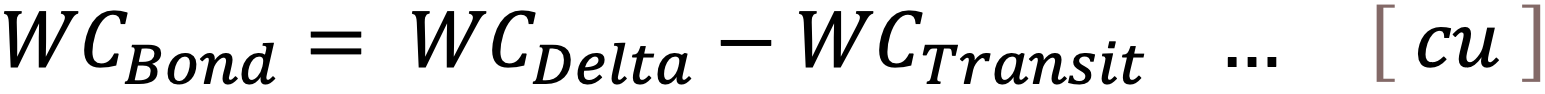
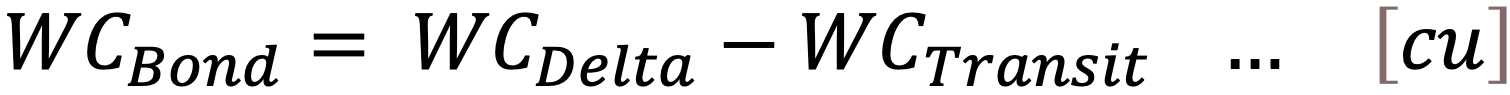
Commit

Changed region(s): [[0.4669, 0.0426, 1.0, 0.9149], [0.0, 0.1064, 0.4669, 0.9149]]

diff --git a/research/WhitePaper.md b/research/WhitePaper.md
@@ -44,8 +44,8 @@ A list of abbreviations and acronyms used in this paper is presented at the end.
 
 Some formulas use the expression of '+=' or '-='.
 
-<img src="https://github.com/HonestInsurance/Resources/blob/master/research/formulas/ch1-img2.png?raw=true" width="700" style="padding:30px; padding-left:50px">
-<img src="https://github.com/HonestInsurance/Resources/blob/master/research/formulas/ch1-img3.png?raw=true" width="700" style="padding:30px; padding-left:50px">
+<img src="https://github.com/HonestInsurance/Resources/blob/master/research/formulas/ch1-img2.png?raw=true" width="735" style="padding:30px; padding-left:50px">
+<img src="https://github.com/HonestInsurance/Resources/blob/master/research/formulas/ch1-img3.png?raw=true" width="735" style="padding:30px; padding-left:50px">
 
 ---
 
@@ -85,7 +85,7 @@ WC<sub>Bal</sub> refers to the account balance of Funding Account at any given p
 
 The proposed model utilizes historic expenses to make a prediction about the insurance pool's 'near' future expenses. These historical **daily expenses** of running the insurance pool can be calculated with 'n' being the number of days in the past that are considered.
 
-<img src="https://github.com/HonestInsurance/Resources/blob/master/research/formulas/ch3-img1.png?raw=true" width="500" style="padding:30px; padding-left:50px">
+<img src="https://github.com/HonestInsurance/Resources/blob/master/research/formulas/ch3-img1.png?raw=true" width="517" style="padding:30px; padding-left:50px">
 
 In selecting an appropriate value for 'n' two aspects must be considered:
 
@@ -100,7 +100,7 @@ WC<sub>Exp</sub> accounts only for actual costs that are settled from the fundin
 
 Due to sometimes significant time gaps between claim incidents and their settlements, WC<sub>Locked</sub> is used in this model to account for these future liabilities (accrued liabilities are created). The purpose of these accruals is to capture expected future expenditures in a timely fashion, allowing the model to respond more quickly to a changing environment.
 
-<img src="https://github.com/HonestInsurance/Resources/blob/master/research/formulas/ch3-img2.png?raw=true" width="480" style="padding:30px; padding-left:50px">
+<img src="https://github.com/HonestInsurance/Resources/blob/master/research/formulas/ch3-img2.png?raw=true" width="495" style="padding:30px; padding-left:50px">
 
 'm' represents the total number of claims for which an accrual has been established. Note: Establishing an accrual for a claim should be considered an exception to the rule and not the default operating procedure, the exception being if:
 
@@ -113,7 +113,7 @@ If an accrual has been established for a claim, this liability will be removed f
 
 A key metric on which the health of the insurance pool can be assessed is the duration in days WC<sub>Bal</sub> is able to cover **anticipated** claim payments without having any additional contributions made to it. This metric is called Working Capital Time (WC<sub>Time</sub>) and can be calculated as follows:
 
-<img src="https://github.com/HonestInsurance/Resources/blob/master/research/formulas/ch3-img3.png?raw=true" width="370" style="padding:30px; padding-left:50px">
+<img src="https://github.com/HonestInsurance/Resources/blob/master/research/formulas/ch3-img3.png?raw=true" width="385" style="padding:30px; padding-left:50px">
 
 Since WC<sub>Locked</sub> is included in this formula, WC<sub>Time</sub> can also be a negative value. This would mean that WC<sub>Bal</sub> is insufficient to cover the anticipated claims represented by WC<sub>Locked</sub> causing the insurance pool to be in debt. However, the insurance pool remains solvent as long as WC<sub>Bal</sub> is able to fund ongoing WC<sub>Exp</sub>.
 
@@ -154,36 +154,36 @@ Finally, a very high WC<sub>Time</sub> (and WC<sub>Bal</sub>) may provide Liquid
 
 The Risk premium (CCU<sub>Risk</sub>) in the context of WC<sub>Time</sub> can be calculated as follows:
 
-<img src="https://github.com/HonestInsurance/Resources/blob/master/research/formulas/ch3-img4.png?raw=true" width="300" style="padding:30px; padding-left:50px">
+<img src="https://github.com/HonestInsurance/Resources/blob/master/research/formulas/ch3-img4.png?raw=true" width="315" style="padding:30px; padding-left:50px">
 
 
 The interest component (CCU<sub>Interest</sub>) in relation to WC<sub>Time</sub> is considered to be a linear function in which Liquidity Providers demand a fixed daily return for providing the funds. As a result, CCU<sub>Interest</sub> is the product of the demanded daily return and the duration (WC<sub>Time</sub>):
 
-<img src="https://github.com/HonestInsurance/Resources/blob/master/research/formulas/ch3-img5.png?raw=true" width="290" style="padding:30px; padding-left:50px">
+<img src="https://github.com/HonestInsurance/Resources/blob/master/research/formulas/ch3-img5.png?raw=true" width="302" style="padding:30px; padding-left:50px">
 
 CCU<sub>Total</sub> can be calculated as the sum of CCU<sub>Risk</sub> and CCU<sub>Interest</sub>.
 
-<img src="https://github.com/HonestInsurance/Resources/blob/master/research/formulas/ch3-img6.png?raw=true" width="450" style="padding:30px; padding-left:50px">
+<img src="https://github.com/HonestInsurance/Resources/blob/master/research/formulas/ch3-img6.png?raw=true" width="492" style="padding:30px; padding-left:50px">
 
 The ideal WC<sub>TargetTime</sub> can now be calculated by finding a minimum for CCU<sub>Total</sub>:
 
-<img src="https://github.com/HonestInsurance/Resources/blob/master/research/formulas/ch3-img7.png?raw=true" width="500" style="padding:30px; padding-left:50px">
+<img src="https://github.com/HonestInsurance/Resources/blob/master/research/formulas/ch3-img7.png?raw=true" width="540" style="padding:30px; padding-left:50px">
 
 Mathematically, we can conclude:
 
-<img src="https://github.com/HonestInsurance/Resources/blob/master/research/formulas/ch3-img8.png?raw=true" width="120" style="padding:20px; padding-left:50px"> </break>
+<img src="https://github.com/HonestInsurance/Resources/blob/master/research/formulas/ch3-img8.png?raw=true" width="122" style="padding:20px; padding-left:50px"> </break>
 
-<img src="https://github.com/HonestInsurance/Resources/blob/master/research/formulas/ch3-img9.png?raw=true" width="300" style="padding:30px; padding-left:50px"> </break>
+<img src="https://github.com/HonestInsurance/Resources/blob/master/research/formulas/ch3-img9.png?raw=true" width="310" style="padding:30px; padding-left:50px"> </break>
 
-<img src="https://github.com/HonestInsurance/Resources/blob/master/research/formulas/ch3-img10.png?raw=true" width="180" style="padding:30px; padding-left:50px"> </break>
+<img src="https://github.com/HonestInsurance/Resources/blob/master/research/formulas/ch3-img10.png?raw=true" width="195" style="padding:30px; padding-left:50px"> </break>
 
-<img src="https://github.com/HonestInsurance/Resources/blob/master/research/formulas/ch3-img11.png?raw=true" width="320" style="padding:30px; padding-left:50px">
+<img src="https://github.com/HonestInsurance/Resources/blob/master/research/formulas/ch3-img11.png?raw=true" width="340" style="padding:30px; padding-left:50px">
 
 ## Demand of Working Capital (WC<sub>Delta</sub>)
 
 In comparing WC<sub>TargetTime</sub> with the current WC<sub>Time</sub>, the demand for additional WC required can be expressed as
 
-<img src="https://github.com/HonestInsurance/Resources/blob/master/research/formulas/ch3-img12.png?raw=true" width="470" style="padding:30px; padding-left:50px">
+<img src="https://github.com/HonestInsurance/Resources/blob/master/research/formulas/ch3-img12.png?raw=true" width="510" style="padding:30px; padding-left:50px">
 
 A positive value for WC<sub>Delta</sub> describes the demand for additional liquidity required to match WC<sub>Time</sub> with WC<sub>TargetTime</sub>. A negative value for WC<sub>Delta</sub> indicates that the insurance pool is over funded and no additional liquidity is required at this point in time.
 
@@ -202,14 +202,14 @@ A Liquidity Provider can be any natural person of eligible age or a legal entity
 
 Due to a delay in a bond being issued and the corresponding principal being credited to the insurance pool's bank account, the variable WC<sub>Transit</sub> is used to capture the sum of all the Bonds' principal in transit.
 
-<img src="https://github.com/HonestInsurance/Resources/blob/master/research/formulas/ch4-img1.png?raw=true" width="460" style="padding:30px; padding-left:50px"> </break>
+<img src="https://github.com/HonestInsurance/Resources/blob/master/research/formulas/ch4-img1.png?raw=true" width="505" style="padding:30px; padding-left:50px"> </break>
 
-<img src="https://github.com/HonestInsurance/Resources/blob/master/research/formulas/ch4-img2.png?raw=true" width="480" style="padding:30px; padding-left:50px">
+<img src="https://github.com/HonestInsurance/Resources/blob/master/research/formulas/ch4-img2.png?raw=true" width="525" style="padding:30px; padding-left:50px">
 
 
 When the Liquidity Provider fails to deposit the principal within the **Bond Payment Period** , the Bond contract is voided and the corresponding WC<sub>Transit</sub> is removed as well.
 
-<img src="https://github.com/HonestInsurance/Resources/blob/master/research/formulas/ch4-img3.png?raw=true" width="460" style="padding:30px; padding-left:50px">
+<img src="https://github.com/HonestInsurance/Resources/blob/master/research/formulas/ch4-img3.png?raw=true" width="510" style="padding:30px; padding-left:50px">
 
 
 To encourage Liquidity Providers to deposit the principal and fulfil their contractual obligations, Liquidity Providers need to provide a security valued at 10% of the value of the Bond's principal. If a Liquidity Provider fails to deposit the principal, the ownership of the security transfers to the insurance pool. Two options are proposed to provide this security:
@@ -226,7 +226,7 @@ As stated earlier, when the principal does not get credited within the Bond Paym
 
 Taking WC<sub>Transit</sub> into account, the actual demand for new capital (WC<sub>Bond</sub>) to be acquired by the insurance pool through issuing bonds can be calculated as follows:
 
-<img src="https://github.com/HonestInsurance/Resources/blob/master/research/formulas/ch4-img4.png?raw=true" width="350" style="padding:30px; padding-left:50px">
+<img src="https://github.com/HonestInsurance/Resources/blob/master/research/formulas/ch4-img4.png?raw=true" width="377" style="padding:30px; padding-left:50px">
 
 
 In purchasing Bonds, the following bond constraints and clauses apply to Liquidity Providers.
@@ -262,20 +262,20 @@ At periodic intervals, a new demand for WC<sub>Delta</sub> is calculated by the 
 
 - First, a new value for WC<sub>Bond</sub> is calculated by using the previous formula
 
-<img src="https://github.com/HonestInsurance/Resources/blob/master/research/formulas/ch4-img5.png?raw=true" width="350" style="padding:30px; padding-left:50px">
+<img src="https://github.com/HonestInsurance/Resources/blob/master/research/formulas/ch4-img5.png?raw=true" width="377" style="padding:30px; padding-left:50px">
 
 
 - Yield (Yield of the top step) remains at the same value. If no value has been defined in the past, a value of 1% is chosen as its initial value.
 - Finally, the Gradient can be recalculated by
 
-<img src="https://github.com/HonestInsurance/Resources/blob/master/research/formulas/ch4-img6.png?raw=true" width="260" style="padding:30px; padding-left:50px">
+<img src="https://github.com/HonestInsurance/Resources/blob/master/research/formulas/ch4-img6.png?raw=true" width="280" style="padding:30px; padding-left:50px">
 
 
 ## Acceleration of Yield
 
 The **Yield** of the insurance pool **accelerates at a discrete interval of one minute**. However, this increase is executed only if WC<sub>Bond</sub> exceeds a minimum threshold of 10% of WC<sub>Exp</sub>.
 
-<img src="https://github.com/HonestInsurance/Resources/blob/master/research/formulas/ch4-img7.png?raw=true" width="580" style="padding:30px; padding-left:50px">
+<img src="https://github.com/HonestInsurance/Resources/blob/master/research/formulas/ch4-img7.png?raw=true" width="630" style="padding:30px; padding-left:50px">
 
 
 The reasoning for this 10% threshold is twofold. First, the resources consumed on a minute-by-minute basis to increase the Yield in comparison to the outstanding WC<sub>Bond</sub> volume may not justify its operations. Second, and more importantly, a small value for WC<sub>Bond</sub> may not make it worthwhile to any Liquidity Provider to purchase a bond with the remaining WC<sub>Bond</sub> as its principal. This would potentially cause the Yield to increase to a very high value. When a reinitialization occurs and a higher WC<sub>Bond</sub> demand is on offer, a significant portion of this WC<sub>Bond</sub> becomes available at an unjustifiably high Yield.
@@ -284,12 +284,12 @@ The implications in choosing an appropriate value for YAC are as follows:
 
 1. **Double Value Time** represents the duration it would take the Yield to increase by a factor of two (i.e. to double in value). Hence, this duration determines the insurance pool's ability to respond to a changing environment in which Liquidity Providers request a higher Yield.
 
-<img src="https://github.com/HonestInsurance/Resources/blob/master/research/formulas/ch4-img8.png?raw=true" width="530" style="padding:30px; padding-left:50px">
+<img src="https://github.com/HonestInsurance/Resources/blob/master/research/formulas/ch4-img8.png?raw=true" width="572" style="padding:30px; padding-left:50px">
 
 
 1. **Turnover Rate** refers to the time it would take to sell all the WC<sub>Bond</sub> under the condition that Liquidity Providers' demanded Yield remains constant. This can be perceived as the speed at which WC<sub>Bond</sub> is being 'sold' to Liquidity Providers.
 
-<img src="https://github.com/HonestInsurance/Resources/blob/master/research/formulas/ch4-img9.png?raw=true" width="410" style="padding:30px; padding-left:50px">
+<img src="https://github.com/HonestInsurance/Resources/blob/master/research/formulas/ch4-img9.png?raw=true" width="450" style="padding:30px; padding-left:50px">
 
 The relationship between Double Value Time and Turnover Rate, depending on YAC, is shown in the diagram below.
 
@@ -297,35 +297,35 @@ The relationship between Double Value Time and Turnover Rate, depending on YAC, 
 
 To obtain YAC on a per minute basis calculate
 
-<img src="https://github.com/HonestInsurance/Resources/blob/master/research/formulas/ch4-img10.png?raw=true" width="490" style="padding:30px; padding-left:50px">
+<img src="https://github.com/HonestInsurance/Resources/blob/master/research/formulas/ch4-img10.png?raw=true" width="527" style="padding:30px; padding-left:50px">
 
 
 ## Issuing of a new Insurance Pool Bond (Bond)
 
 The terms of a newly issued Bond are as follows:
 
-<img src="https://github.com/HonestInsurance/Resources/blob/master/research/formulas/ch4-img11.png?raw=true" width="750" style="padding:30px; padding-left:50px"> </break>
+<img src="https://github.com/HonestInsurance/Resources/blob/master/research/formulas/ch4-img11.png?raw=true" width="807" style="padding:30px; padding-left:50px"> </break>
 
-<img src="https://github.com/HonestInsurance/Resources/blob/master/research/formulas/ch4-img12.png?raw=true" width="490" style="padding:30px; padding-left:50px"> </break>
+<img src="https://github.com/HonestInsurance/Resources/blob/master/research/formulas/ch4-img12.png?raw=true" width="525" style="padding:30px; padding-left:50px"> </break>
 
-<img src="https://github.com/HonestInsurance/Resources/blob/master/research/formulas/ch4-img13.png?raw=true" width="250" style="padding:30px; padding-left:50px"> </break>
+<img src="https://github.com/HonestInsurance/Resources/blob/master/research/formulas/ch4-img13.png?raw=true" width="270" style="padding:30px; padding-left:50px"> </break>
 
-<img src="https://github.com/HonestInsurance/Resources/blob/master/research/formulas/ch4-img14.png?raw=true" width="540" style="padding:30px; padding-left:50px">
+<img src="https://github.com/HonestInsurance/Resources/blob/master/research/formulas/ch4-img14.png?raw=true" width="577" style="padding:30px; padding-left:50px">
 
 
 ## Adjustment of WC<sub>Bond</sub> and Yield
 
 Upon the successful issue of a Bond, WC<sub>Bond</sub> and Yield are adjusted:
 
-<img src="https://github.com/HonestInsurance/Resources/blob/master/research/formulas/ch4-img15.png?raw=true" width="210" style="padding:30px; padding-left:50px"> </break>
+<img src="https://github.com/HonestInsurance/Resources/blob/master/research/formulas/ch4-img15.png?raw=true" width="235" style="padding:30px; padding-left:50px"> </break>
 
-<img src="https://github.com/HonestInsurance/Resources/blob/master/research/formulas/ch4-img16.png?raw=true" width="300" style="padding:30px; padding-left:50px">
+<img src="https://github.com/HonestInsurance/Resources/blob/master/research/formulas/ch4-img16.png?raw=true" width="315" style="padding:30px; padding-left:50px">
 
 ## Reimbursement of Liquidity Providers
 
 At the time, a Bond matures, the Bond's principal (BondPrincipal) plus yield (BondYield) are transferred back to the Liquidity Provider.
 
-<img src="https://github.com/HonestInsurance/Resources/blob/master/research/formulas/ch4-img17.png?raw=true" width="570" style="padding:30px; padding-left:50px">
+<img src="https://github.com/HonestInsurance/Resources/blob/master/research/formulas/ch4-img17.png?raw=true" width="625" style="padding:30px; padding-left:50px">
 
 ---
 
@@ -337,7 +337,7 @@ Consumers can participate and get insurance coverage by subscribing to the insur
 
 As the policy risk coverage (PolicyRisk) is different from policy to policy, an objective and quantifiable process (or formula) to compare various insurance policies with each other is required. Such a process may differ again from insurance pool to insurance pool and hence needs to be defined in the context of the insurance pool's environment.
 
-<img src="https://github.com/HonestInsurance/Resources/blob/master/research/formulas/ch5-img1.png?raw=true" width="800" style="padding:30px; padding-left:50px">
+<img src="https://github.com/HonestInsurance/Resources/blob/master/research/formulas/ch5-img1.png?raw=true" width="782" style="padding:30px; padding-left:50px">
 
 ### The required function needs to meet the following criteria:
 
@@ -379,14 +379,14 @@ The calculation of the **tomorrow's** premium undergoes the following steps:
 
 The average bond maturity payout in the future is calculated by dividing the total amount of **all maturing bonds in the future** by _Bond __Maturity Duration_. For example a value of 300 for _Bond Payout__ Average per day_ and a value of 90 for _Bond__Maturity Duration_means that over the next 90 days the average value of bonds maturing over the course of a single day is 300.
 
-<img src="https://github.com/HonestInsurance/Resources/blob/master/research/formulas/ch5-img2.png?raw=true" width="680" style="padding:30px; padding-left:50px">
+<img src="https://github.com/HonestInsurance/Resources/blob/master/research/formulas/ch5-img2.png?raw=true" width="730" style="padding:30px; padding-left:50px">
 
 2. **Maximum bond payout slope per day**
 
 Since bond maturity payout amounts are most likely distributed unevenly, the model must take that into account by calculating the maximum 'slope' of the cumulated upcoming bond maturity payouts.
  To do that for every day in the future until the BondMaturity Duration has been reached, the model has to ensure that the balance in the Bond Account remains positive by calculating the accumulated future capital demands.
 
-<img src="https://github.com/HonestInsurance/Resources/blob/master/research/formulas/ch5-img3.png?raw=true" width="820" style="padding:30px; padding-left:50px">
+<img src="https://github.com/HonestInsurance/Resources/blob/master/research/formulas/ch5-img3.png?raw=true" width="888" style="padding:30px; padding-left:50px">
 
 The **daily demand** in capital to settle all maturing bonds for any given day 'i' in the future is defined as all the sum of bonds that are maturing until that day PLUS a buffer amount that should always be available in the bond account defined as 3 times the Bond PayoutsAverage per day MINUS the current balance of the Bond Account DIVIDED by 'i'.
 
@@ -396,7 +396,7 @@ A value of 700 for _Bond Payout_ _Slope_ _{ 8 }_ therefore means that over the c
 
 The final **target premium** to be charged to all the consumers combined for tomorrow can be calculated by:
 
-<img src="https://github.com/HonestInsurance/Resources/blob/master/research/formulas/ch5-img4.png?raw=true" width="820" style="padding:30px; padding-left:50px">
+<img src="https://github.com/HonestInsurance/Resources/blob/master/research/formulas/ch5-img4.png?raw=true" width="862" style="padding:30px; padding-left:50px">
 
 In this model the consumers are charged the average future cost for the insurance ( Bond PayoutAverage per day) at a minimum. The benefits of charging the average at a minimum premium is that the daily premiums charged over time are more stable as short term fluctuations in maturing bonds are compensated for. During the days when the bond maturity payouts are low the premiums charged are parked in the Bond account and are being consumed during days when bond maturity payouts are high. As a result the model provides a fairer premium model to all consumers independently of when someone joins or leaves the insurance pool.
 
@@ -406,23 +406,23 @@ The reasoning for using a buffer amount of 3 times the average payout amount per
 
 The risk exposure of all insurance pool policies combined can be calculated as the sum of all the individual policies' risk points ('n' representing the number of currently active policies in the pool).
 
-<img src="https://github.com/HonestInsurance/Resources/blob/master/research/formulas/ch5-img5.png?raw=true" width="430" style="padding:30px; padding-left:50px">
+<img src="https://github.com/HonestInsurance/Resources/blob/master/research/formulas/ch5-img5.png?raw=true" width="457" style="padding:30px; padding-left:50px">
 
 5. **Tomorrow's insurance premium (per risk point)**
 
 By dividing the Target Premium for tomorrow by the combined risk of all currently active policies the premium for tomorrow and per risk point gets calculated.
 
-<img src="https://github.com/HonestInsurance/Resources/blob/master/research/formulas/ch5-img6.png?raw=true" width="640" style="padding:30px; padding-left:50px">
+<img src="https://github.com/HonestInsurance/Resources/blob/master/research/formulas/ch5-img6.png?raw=true" width="680" style="padding:30px; padding-left:50px">
 
 Consequently a policy's premium for tomorrow is calculated by multiplying the policy's risk [points] with tomorrow's premium per risk point.
 
-<img src="https://github.com/HonestInsurance/Resources/blob/master/research/formulas/ch5-img7.png?raw=true" width="760" style="padding:30px; padding-left:50px">
+<img src="https://github.com/HonestInsurance/Resources/blob/master/research/formulas/ch5-img7.png?raw=true" width="805" style="padding:30px; padding-left:50px">
 
 6. **Yesterday's combined insurance premium charged (for all active policies)**
 
 The insurance premium that is charged to all active policies for the day of yesterday is
 
-<img src="https://github.com/HonestInsurance/Resources/blob/master/research/formulas/ch5-img8.png?raw=true" width="710" style="padding:30px; padding-left:50px">
+<img src="https://github.com/HonestInsurance/Resources/blob/master/research/formulas/ch5-img8.png?raw=true" width="757" style="padding:30px; padding-left:50px">
 
 PremiumYesterday is the amount that is consequently transferred as a single payment from the Premium Account into the Bond Account.
 
@@ -430,7 +430,7 @@ PremiumYesterday is the amount that is consequently transferred as a single paym
 
 Overflow payment occur when 'excessive' funds in the Bond Account are debited and credited to the Funding Account. When this occurs the insurance pool becomes partially self-funding by bypassing Liquidity Providers. Overflow payments may occur once a day and the model calculates the amount that might be transferred as
 
-<img src="https://github.com/HonestInsurance/Resources/blob/master/research/formulas/ch5-img9.png?raw=true" width="820" style="padding:30px; padding-left:50px">
+<img src="https://github.com/HonestInsurance/Resources/blob/master/research/formulas/ch5-img9.png?raw=true" width="900" style="padding:30px; padding-left:50px">
 
 If the calculated value of OverflowYesterday is positive, the corresponding amount gets transferred. This model relies on overflow payments especially during periods of growth in order to avoid the unnecessary accumulation of funds in the Bond account. This model puts these funds to 'work' by redirecting them into the Funding pool.
 
